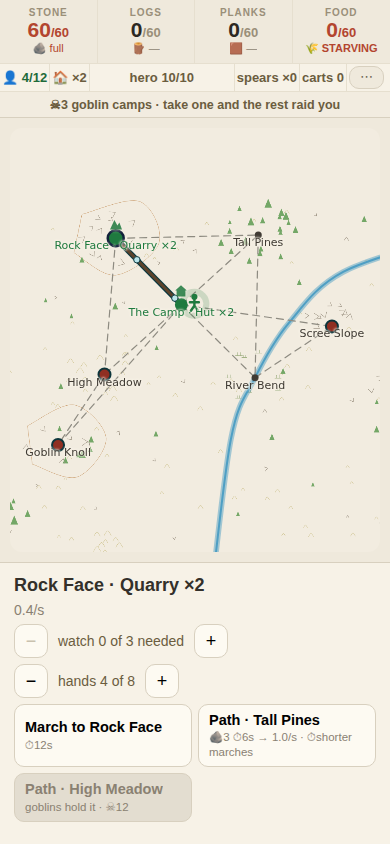
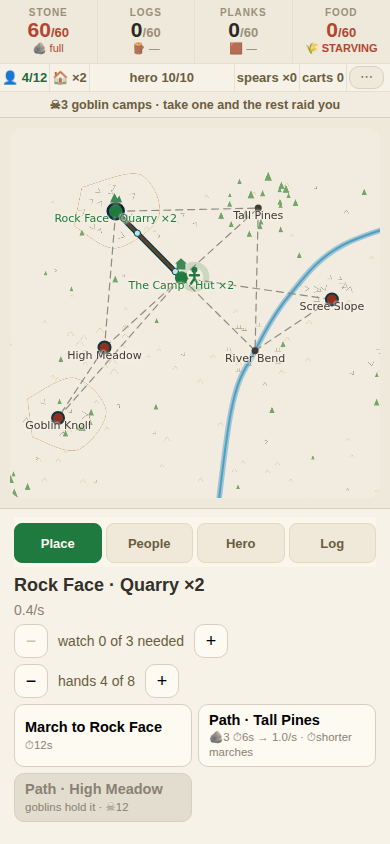
N1 and N2: four tabs, and a log of what happened
"I'm missing a tab, hero, so we need to start building tabs like
resources, people, hero, and so on. Otherwise, it's getting too messy."
And, of the board itself: "I think it got very busy in terms of UI. It is
very OCD."

One scrolling panel was carrying the tapped place, every deed it offers,
the hero, the crew, the watch and the war, in one column. Four rooms now
-- Place, People, Hero, Log -- with the tab row sticky at the top of the
panel so the room you are in stays visible while it scrolls.

⚠ A FIGHT OUTRANKS THE TABS ENTIRELY. The battle strip renders instead
of the tab row, not inside it: a fight you cannot see because you left
the tab on People is a lost run.

PEOPLE says who is where -- housed against the cap, how much of the works
is manned, bread in against bread eaten, and every site with its working
hands and its watch. HERO carries the two deeds that are about the person
rather than a place: feeding them, and sending them out to forage.
Marching stays with the PLACE you are marching to, because the place is
the thing you are choosing.

THE LOG is N2. "Maybe we should have an advanced log too. Event log."
Raids landing, gates held and by whom, ground taken, the hero arriving,
ambushes, a storehouse standing, and someone giving up on the valley and
walking out. Sixty lines, newest first, trimmed rather than refused at
the save door -- a run is not worth throwing away over its history.

It is also the home for the messages that used to flash over the board:
[…]

diff --git a/src/ui/Camp.svelte b/src/ui/Camp.svelte
@@ -54,6 +54,26 @@
   const brim = (n: number): boolean => n >= roomOf(game) - 1e-9;
   /** How much of the valley is still theirs — the goal, as one number. */
   const holdings = $derived(Object.keys(game.goblins).length);
+
+  /** ★★★ TABS — N1, 2026-08-11. The owner: *"I'm missing a tab, hero, so we
+   *  need to start building tabs like resources, people, hero, and so on.
+   *  Otherwise, it's getting too messy."* And, of the board: *"I think it got
+   *  very busy in terms of UI. It is very OCD."*
+   *
+   *  One scrolling panel was carrying the tapped site, every deed it offers,
+   *  the hero, the crew, the watch and the war. Four rooms now. The SITE tab
+   *  keeps the map's own business; the others take what was crowding it.
+   *
+   *  ⚠ A FIGHT OUTRANKS THE TABS ENTIRELY (below): a battle you cannot see
+   *  because you left the tab on People is a lost run. */
+  type Tab = 'site' | 'people' | 'hero' | 'log';
+  let tab = $state<Tab>('site');
+  const TABS: Array<{ id: Tab; name: string }> = [
+    { id: 'site', name: 'Place' },
+    { id: 'people', name: 'People' },
+    { id: 'hero', name: 'Hero' },
+    { id: 'log', name: 'Log' },
+  ];
   /** ★★ AND HOW MANY OF THEM YOU CAN ACTUALLY SEE — F6, 2026-08-11. The
    *  owner: *"it's a bit strange that it says five camps left while I can
    *  only see two."* The count was every holding on the map; the board only
@@ -365,6 +385,33 @@
   })());
 
   interface Deed { label: string; note: string; why: string | null; go: () => void }
+
+  /** ★★ THE HERO'S OWN DEEDS (N1) — the two that are about the person rather
+   *  than about a place, so they belong on the Hero tab and not in the middle
+   *  of the camp's building list. Marching stays with the PLACE you are
+   *  marching to, because that is the thing you are choosing. */
+  function heroDeeds(): Deed[] {
+    const out: Deed[] = [];
+    const eat = uneatable(game);
+    out.push({
+      label: 'Feed the hero',
+      note: eat ?? `${amount('food', MEAL_FOOD)} → ${MARK.hero}+${MEAL_HP}`,
+      why: eat,
+      go: () => act({ type: 'eat' }),
+    });
+    const fw = unforageable(game);
+    const next = nextForay(game);
+    const left = forageLeft(game);
+    out.push({
+      label: left !== null ? 'Foraging…' : 'Send the hero out',
+      note: left !== null
+        ? `${MARK.time}${Math.ceil(left)}s · ${next.name}`
+        : (fw ?? `${MARK.time}${FORAGE_SECS}s → ${price(next.loot)} · ${next.name}`),
+      why: fw,
+      go: () => act({ type: 'forage' }),
+    });
+    return out;
+  }
   const deeds = $derived<Deed[]>((() => {
     if (picked === null) return [];
     const s = SITE.get(picked);
@@ -1038,7 +1085,64 @@
             <em>home — the ground keeps its wounds</em>
           </button>
         </div>
-      {:else if picked !== null && SITE.has(picked)}
+      {:else}
+        <!-- ★★★ THE TABS (N1). Only when there is no fight: a battle you
+             cannot see because you left the tab on People is a lost run. -->
+        <div class="tabs" role="tablist">
+          {#each TABS as t (t.id)}
+            <button class="tab" class:on={tab === t.id} role="tab"
+              aria-selected={tab === t.id}
+              onclick={() => (tab = t.id)}>{t.name}{#if t.id === 'log' && game.log.length > 0}<i>{game.log.length}</i>{/if}</button>
+          {/each}
+        </div>
+      {/if}
+
+      {#if !game.fight && tab === 'people'}
+        <!-- ★ PEOPLE: where everyone is, and the two jobs that are not
+             "stand at a workface" — the watch, and the walk. -->
+        <h2>People</h2>
+        <p class="note">{MARK.people}{Math.floor(game.pop)} of {cap} housed
+          · {(f.staff * 100).toFixed(0)}% of the works manned</p>
+        <p class="note">{MARK.food}{f.food.toFixed(1)}/s brought in
+          · {hunger(game).toFixed(1)}/s eaten</p>
+        {#if guardsTotal(game) > 0}
+          <p class="note">{MARK.danger}{guardsTotal(game)} standing watch — they do not work</p>
+        {/if}
+        {#each shown(game).filter((s) => (game.stacks[s.id] ?? 0) > 0 || guardsAt(game, s.id) > 0) as s (s.id)}
+          <p class="note">{s.name} · {(f.hands.get(s.id) ?? 0)} working{
+            guardsAt(game, s.id) > 0 ? ` · ${guardsAt(game, s.id)} on watch` : ''}</p>
+        {/each}
+      {:else if !game.fight && tab === 'hero'}
+        <h2>The hero</h2>
+        <p class="note">{MARK.hero}{game.hero.hp} of {heroMax(game)}
+          · {spearLabel(game.hero.spears).toLowerCase()}</p>
+        <p class="note">{game.hero.trip
+          ? `on the road to ${SITE.get(game.hero.trip.to)?.name ?? ''} · ${MARK.time}${Math.ceil(game.hero.trip.left)}s`
+          : `standing at ${SITE.get(game.hero.at)?.name ?? ''}`}</p>
+        {#if game.forage}
+          <p class="note">out foraging · {MARK.time}{Math.ceil(forageLeft(game) ?? 0)}s</p>
+        {/if}
+        <div class="dock">
+          {#each heroDeeds() as d (d.label)}
+            <button class="deed" class:cant={d.why !== null} onclick={d.go}>
+              {d.label}<em>{d.note}</em>
+            </button>
+          {/each}
+        </div>
+      {:else if !game.fight && tab === 'log'}
+        <!-- ★★★ THE EVENT LOG (N2) — *"maybe we should have an advanced log
+             too"*, and the home for the messages that used to flash over the
+             board: *"'Scree Slope just taken' — they should go into the
+             advanced log."* Newest first, because that is what you came for. -->
+        <h2>What happened</h2>
+        {#if game.log.length === 0}
+          <p class="note">Nothing yet. The valley is quiet.</p>
+        {:else}
+          {#each [...game.log].reverse() as line, i (i)}
+            <p class="note logline">{line}</p>
+          {/each}
+        {/if}
+      {:else if !game.fight && picked !== null && SITE.has(picked)}
         <h2>{nameOf(picked)}</h2>
         <!-- ★ THE NUMBERS THE MAP LABEL NO LONGER CARRIES (2026-08-11). They
              lived in the label and made it long enough to lose its collision
@@ -1178,6 +1282,19 @@
 
   /* ⚠ `flee` KEEPS ITS BUTTON MID-SWING ON PURPOSE — a safety valve you
      have to wait for is not a safety valve. */
+  /* ★★★ THE TABS (N1). A row of four, thumb-sized, sticky to the top of the
+     panel so the room you are in is always visible while it scrolls. */
+  .tabs { display: grid; grid-template-columns: repeat(4, 1fr); gap: 4px;
+    margin: 0 0 8px; position: sticky; top: 0; background: #faf6ec;
+    padding: 6px 0 4px; z-index: 2; }
+  .tab { font: inherit; font-size: 13px; font-weight: 700; color: #6b5d3f;
+    background: #f0e9d9; border: 1px solid #e2d9c3; border-radius: 8px;
+    padding: 9px 4px; min-height: 40px; cursor: pointer; }
+  .tab.on { background: #1f7a3f; border-color: #1f7a3f; color: #fdfaf2; }
+  .tab i { font-style: normal; font-size: 11px; opacity: 0.75;
+    margin-left: 4px; }
+  .logline { border-left: 3px solid #e2d9c3; padding-left: 8px;
+    margin: 5px 0; }
   .swinging { color: #b3452f; font-weight: 700; text-align: center; margin: 2px 0; }
   /* ★ The wind-up is the one beat where Guard is right, so it shouts. */
   .swinging.windup { background: #fbe9e4; border-radius: 6px; padding: 2px 0;

diff --git a/src/camp/engine.ts b/src/camp/engine.ts
@@ -323,6 +323,12 @@ export interface City {
   /** ★ THE STOREHOUSE UNDER THE HAMMER — 2026-08-11. It was the one thing in
    *  the valley that appeared the instant it was paid for. */
   stowing: { left: number; secs: number } | null;
+  /** ★★★ THE EVENT LOG — N2, 2026-08-11. The owner: *"maybe we should have
+   *  an advanced log too. Event log."* And, of the messages that flash over
+   *  the board: *"'Scree Slope just taken' — they should go into the advanced
+   *  log."* Newest last, capped at `LOG_KEEP`. Strings, because they are
+   *  written where the event happens and read nowhere else. */
+  log: string[];
   /** ★★★ EXTRA HANDS HIRED ONTO A SITE'S WORKS — 2026-08-11. Site id → how
    *  many times its crew has been widened. */
   hire: Record<number, number>;
@@ -429,6 +435,7 @@ export const initial = (): City => ({
   guard: {},
   stowing: null,
   hire: {},
+  log: [],
   legacy: { runs: 0, spears: 0 },
   fight: null,
 });
@@ -925,6 +932,13 @@ export const cartCost = (have: number): { stone: number; planks: number } => ({
  *  (At 2, hut #99 cost five million planks. Nobody was living there.) */
 export const HUT_ROOM = 4;
 /** Seconds to grow one person when there is room. */
+/** How many lines the log keeps. Enough to scroll back through a raid and
+ *  the famine that followed it; not so many that a save doubles in size. */
+export const LOG_KEEP = 60;
+/** Append lines to the log, keeping the newest `LOG_KEEP`. */
+export const logged = (was: string[], ...lines: string[]): string[] =>
+  lines.length === 0 ? was : [...was, ...lines].slice(-LOG_KEEP);
+
 export const GROW_SECS = 12;
 /** ★ How full the larder must be for settlers to keep coming without a
  *  surplus. A quarter: enough to carry the opening, not enough to let a
@@ -1633,7 +1647,9 @@ function liberate(g: City, now: NonNullable<City['fight']>): City {
   const menace = { ...g.menace };
   delete menace[now.site];
   return { ...g, goblins, menace, fight: null, pop: g.pop + CAPTIVES,
-    taken: g.taken + 1 };
+    taken: g.taken + 1,
+    log: logged(g.log,
+      `${SITE.get(now.site)?.name ?? 'Ground'} is taken. Two captives walk home with the hero.`) };
 }
 
 /** ★ THE LONGEST A SINGLE TICK MAY STAND FOR. One `tick` is one Euler
@@ -1660,6 +1676,10 @@ export function catchUp(g: City, secs: number): City {
 export function apply(g: City, a: Action): City {
   switch (a.type) {
     case 'tick': {
+      /** ★ WHAT HAPPENED THIS TICK, for the log (N2, 2026-08-11). Declared
+       *  at the very top of the step because everything in it can speak —
+       *  the growth block runs long before the raids do. */
+      const said: string[] = [];
       if (!(a.secs > 0) || g.lost) return g;
       const s = a.secs;
       const f = flow(g);
@@ -1719,7 +1739,11 @@ export function apply(g: City, a: Action): City {
       // below the wild's table, because the valley itself feeds that many.
       if (g.famine >= FAMINE_DEEP && pop > WILD_FED) {
         popPart -= s / LEAVE_SECS;
-        while (popPart < 0 && pop > WILD_FED) { pop -= 1; popPart += 1; }
+        while (popPart < 0 && pop > WILD_FED) {
+          pop -= 1;
+          popPart += 1;
+          said.push('Someone gave up on the valley and walked out.');
+        }
         if (pop <= WILD_FED) popPart = Math.max(0, popPart);
       }
       // The hero heals at home — never mid-fight — toward the max the
@@ -1811,7 +1835,7 @@ export function apply(g: City, a: Action): City {
       if (stowing) {
         const left = stowing.left - s;
         if (left > 0) stowing = { ...stowing, left };
-        else { stowing = null; store = store + 1; }
+        else { stowing = null; store = store + 1; said.push('A storehouse stands.'); }
       }
       // The previous mark ages out; a fresh ambush below replaces it.
       let ambush = g.ambush === null ? null
@@ -1819,7 +1843,11 @@ export function apply(g: City, a: Action): City {
       if (hero.trip) {
         const left = hero.trip.left - s;
         if (left > 0) hero = { ...hero, trip: { ...hero.trip, left } };
-        else { arrived = hero.trip.to; hero = { ...hero, at: arrived, trip: null }; }
+        else {
+          arrived = hero.trip.to;
+          hero = { ...hero, at: arrived, trip: null };
+          said.push(`The hero reached ${SITE.get(arrived)?.name ?? 'the ground'}.`);
+        }
       }
 
       // ★ THE FORAY COMES HOME, and it lands on an away tick too. A raid and
@@ -1883,6 +1911,7 @@ export function apply(g: City, a: Action): City {
             hero = { ...hero,
               hp: Math.max(1, hero.hp - Math.ceil((GOBLINS[id]?.bite ?? 2) * AMBUSH_BITE)) };
             ambushed = t;
+            said.push(`The hero was caught in the open near ${SITE.get(t)?.name ?? 'the road'}.`);
             if ((stacks[t] ?? 0) > 0) {
               if (stacks === g.stacks) stacks = { ...g.stacks };
               stacks[t] = stacks[t]! - 1;
@@ -1901,10 +1930,12 @@ export function apply(g: City, a: Action): City {
           if (guardsAt({ ...g, guard }, t) >= GUARD_STOP) {
             guard = guard === g.guard ? { ...g.guard } : guard;
             guard[t] = guardsAt(g, t) - 1;      // one does not come back
+            said.push(`The watch at ${SITE.get(t)?.name ?? 'the gate'} turned a raid back. One did not come home.`);
             continue;
           }
           if (watch && onWatchAt(g, t)) {
             watch = false;
+            said.push(`The hero met the raid at ${SITE.get(t)?.name ?? 'the gate'} and turned it back.`);
             if (goblins === g.goblins) goblins = { ...goblins };
             goblins[id] = Math.max(1, (goblins[id] ?? 1) - heroHit(g));
             hero = { ...hero, hp: Math.max(0, hero.hp - (GOBLINS[id]?.bite ?? 2)) };
@@ -1913,6 +1944,7 @@ export function apply(g: City, a: Action): City {
           if ((stacks[t] ?? 0) > 0) {
             if (stacks === g.stacks) stacks = { ...g.stacks };
             stacks[t] = stacks[t]! - 1;
+            said.push(`Goblins raided ${SITE.get(t)?.name ?? 'the camp'} and pulled a building down.`);
             continue;
           }
           // ★★★ THE GROUND ITSELF. A site with nothing left on it is a site
@@ -1923,6 +1955,9 @@ export function apply(g: City, a: Action): City {
           goblins[t] = goblins[id] ?? GOBLINS[id]?.strength ?? 12;
           if (menace === g.menace) menace = { ...g.menace };
           menace[t] = 0;
+          said.push(t === 0
+            ? 'The camp is overrun. The valley is lost.'
+            : `Goblins took ${SITE.get(t)?.name ?? 'ground'} and hold it now.`);
           if (t === 0) lost = true;
         }
       }
@@ -1956,6 +1991,7 @@ export function apply(g: City, a: Action): City {
         guard,
         store,
         stowing,
+        log: logged(g.log, ...said),
         // ★ ARRIVING ON HELD GROUND DRAWS THE SWORD. Done here rather than in
         // `march` because the arrival is a tick event, and the holding's
         // strength must be read at the moment they get there — not when they

diff --git a/test/campbuilder.test.ts b/test/campbuilder.test.ts
@@ -16,7 +16,7 @@ import { apply, initial, flow, shown, popCap, pathKey, costOf, pathCostOf, heroM
   FORAGE_SECS, FORAYS, nextForay, unforageable, faminePinch, START_FOOD, FAMINE_DEEP, onWatch,
   WALK_SECS, marchSecs, legsBetween, unmarchable, AMBUSH_TELL, MUSTER_SHOWS,
   walkSecs, ROUGH, SWEEP_SHARE, GUARD_STOP, guardsAt, STOW_SECS, hireCost, unhireable,
-  LEAVE_SECS, GROW_STORE,
+  LEAVE_SECS, GROW_STORE, LOG_KEEP, logged,
   RATION_FOOD, RATION_HP, RATION_PACK,
   BLOW_SECS, blowLeft, SPEAR_NAME, SPEAR_MADE, spearLabel,
   HERO_HP, HEAL_SECS, WILD_FED, EAT, CAPTIVES,
@@ -2871,5 +2871,59 @@ describe('★★★ A TOWN CAN ALWAYS GET OUT OF A FAMINE', () => {
         [pathKey(7, 9)]: 1 } };
     expect(flow(farmed).food).toBeGreaterThan(hunger(farmed));
     expect(tick(farmed, GROW_SECS * 3).pop).toBeGreaterThan(6);
+  });
+});
+
+// ---------------------------------------------------------------------------
+// ★★★ N2 — THE EVENT LOG, 2026-08-11. The owner: *"maybe we should have an
+// advanced log too. Event log."* And of the messages that flash over the
+// board: *"'Scree Slope just taken' — they should go into the advanced log."*
+// ---------------------------------------------------------------------------
+describe('★★★ WHAT HAPPENED, WRITTEN DOWN', () => {
+  const war = (over: Partial<City> = {}): City => ({ ...initial(), taken: 1,
+    pop: 20, food: 9e5, stacks: { 0: 5, 1: 3, 2: 3, 3: 2 },
+    paths: { [pathKey(0, 1)]: 1, [pathKey(0, 2)]: 1, [pathKey(0, 3)]: 1 },
+    goblins: { 4: 12 },
+    hero: { hp: 0, spears: 1, part: 0, at: 9, trip: null }, ...over });
+
+  it('★★★ a raid that lands is written down', () => {
+    const g = war({ menace: { 4: 0.99 } });
+    const out = tick(g, RAID_SECS + 1);
+    expect(out.log.length).toBeGreaterThan(0);
+    expect(out.log.join(' ')).toMatch(/raided|took/);
+  });
+
+  it('★★ so is a gate held, and by whom', () => {
+    const g = war();
+    const gate = raidTarget(g, 4)!;
+    const held = tick({ ...g, menace: { 4: 0.99 },
+      guard: { [gate]: GUARD_STOP } }, RAID_SECS + 1);
+    expect(held.log.join(' ')).toMatch(/watch at .* turned a raid back/);
+  });
+
+  it('★★ and taking ground — the message that used to flash over the board', () => {
+    const g: City = { ...initial(), food: 9e5,
+      hero: { hp: 30, spears: 99, part: 0, at: 4, trip: null } };
+    let x = apply(g, { type: 'assail', id: 4 });
+    for (let i = 0; i < 12 && x.fight; i++) {
+      x = tick(apply(x, { type: 'strike' }), BLOW_SECS + 0.01);
+    }
+    expect(x.goblins[4]).toBeUndefined();
+    expect(x.log.join(' ')).toMatch(/High Meadow is taken/);
+  });
+
+  it('★ it keeps the newest and forgets the rest, and holds at the save door', () => {
+    const many = Array.from({ length: LOG_KEEP + 20 }, (_, i) => `line ${i}`);
+    const g: City = { ...war(), log: many.slice(0, LOG_KEEP) };
+    expect(logged(many, 'newest').length).toBe(LOG_KEEP);
+    expect(logged(many, 'newest').at(-1)).toBe('newest');
+    expect(honour({ game: g, savedAt: 1 })!.game.log.length).toBe(LOG_KEEP);
+    // ⚠ An over-long log is TRIMMED, not refused: a save is not worth
+    // throwing away over history.
+    expect(honour({ game: { ...war(), log: many }, savedAt: 1 })!
+      .game.log.length).toBe(LOG_KEEP);
+    expect(honour({ game: { ...war(), log: [1] } as never, savedAt: 1 })).toBeNull();
+    const { log: _drop, ...older } = war();
+    expect(honour({ game: older as City, savedAt: 1 })!.game.log).toEqual([]);
   });
 });

diff --git a/src/camp/store.ts b/src/camp/store.ts
@@ -1,6 +1,6 @@
 // THE CAMP'S SAVE. Its own key, its own shape — the old game's saves stay
 // untouched on theirs, so flipping back loses nobody anything.
-import { CITY_VERSION, GOBLINS, MAX_GAUGE, RATION_PACK, SITE, initial,
+import { CITY_VERSION, GOBLINS, LOG_KEEP, MAX_GAUGE, RATION_PACK, SITE, initial,
   pathKey, type City } from './engine';
 
 const KEY = 'camp-save';
@@ -127,6 +127,10 @@ export function honour(b: Blob | null | undefined): { game: City; savedAt: numbe
   // ★ THE POSTED WATCH (2026-08-11), defaulted for every older save.
   // ★ THE STOREHOUSE'S HAMMER (2026-08-11), defaulted for older saves.
   // ★ HIRED CREWS (2026-08-11), defaulted for every older save.
+  // ★ THE EVENT LOG (N2, 2026-08-11), defaulted for every older save.
+  if (g.log === undefined || g.log === null) g.log = [];
+  else if (!Array.isArray(g.log) || g.log.some((l: unknown) => typeof l !== 'string')) return null;
+  else if (g.log.length > LOG_KEEP) g.log = g.log.slice(-LOG_KEEP);
   if (g.hire === undefined || g.hire === null) g.hire = {};
   else if (typeof g.hire !== 'object') return null;
   else for (const [k, v] of Object.entries(g.hire)) {
